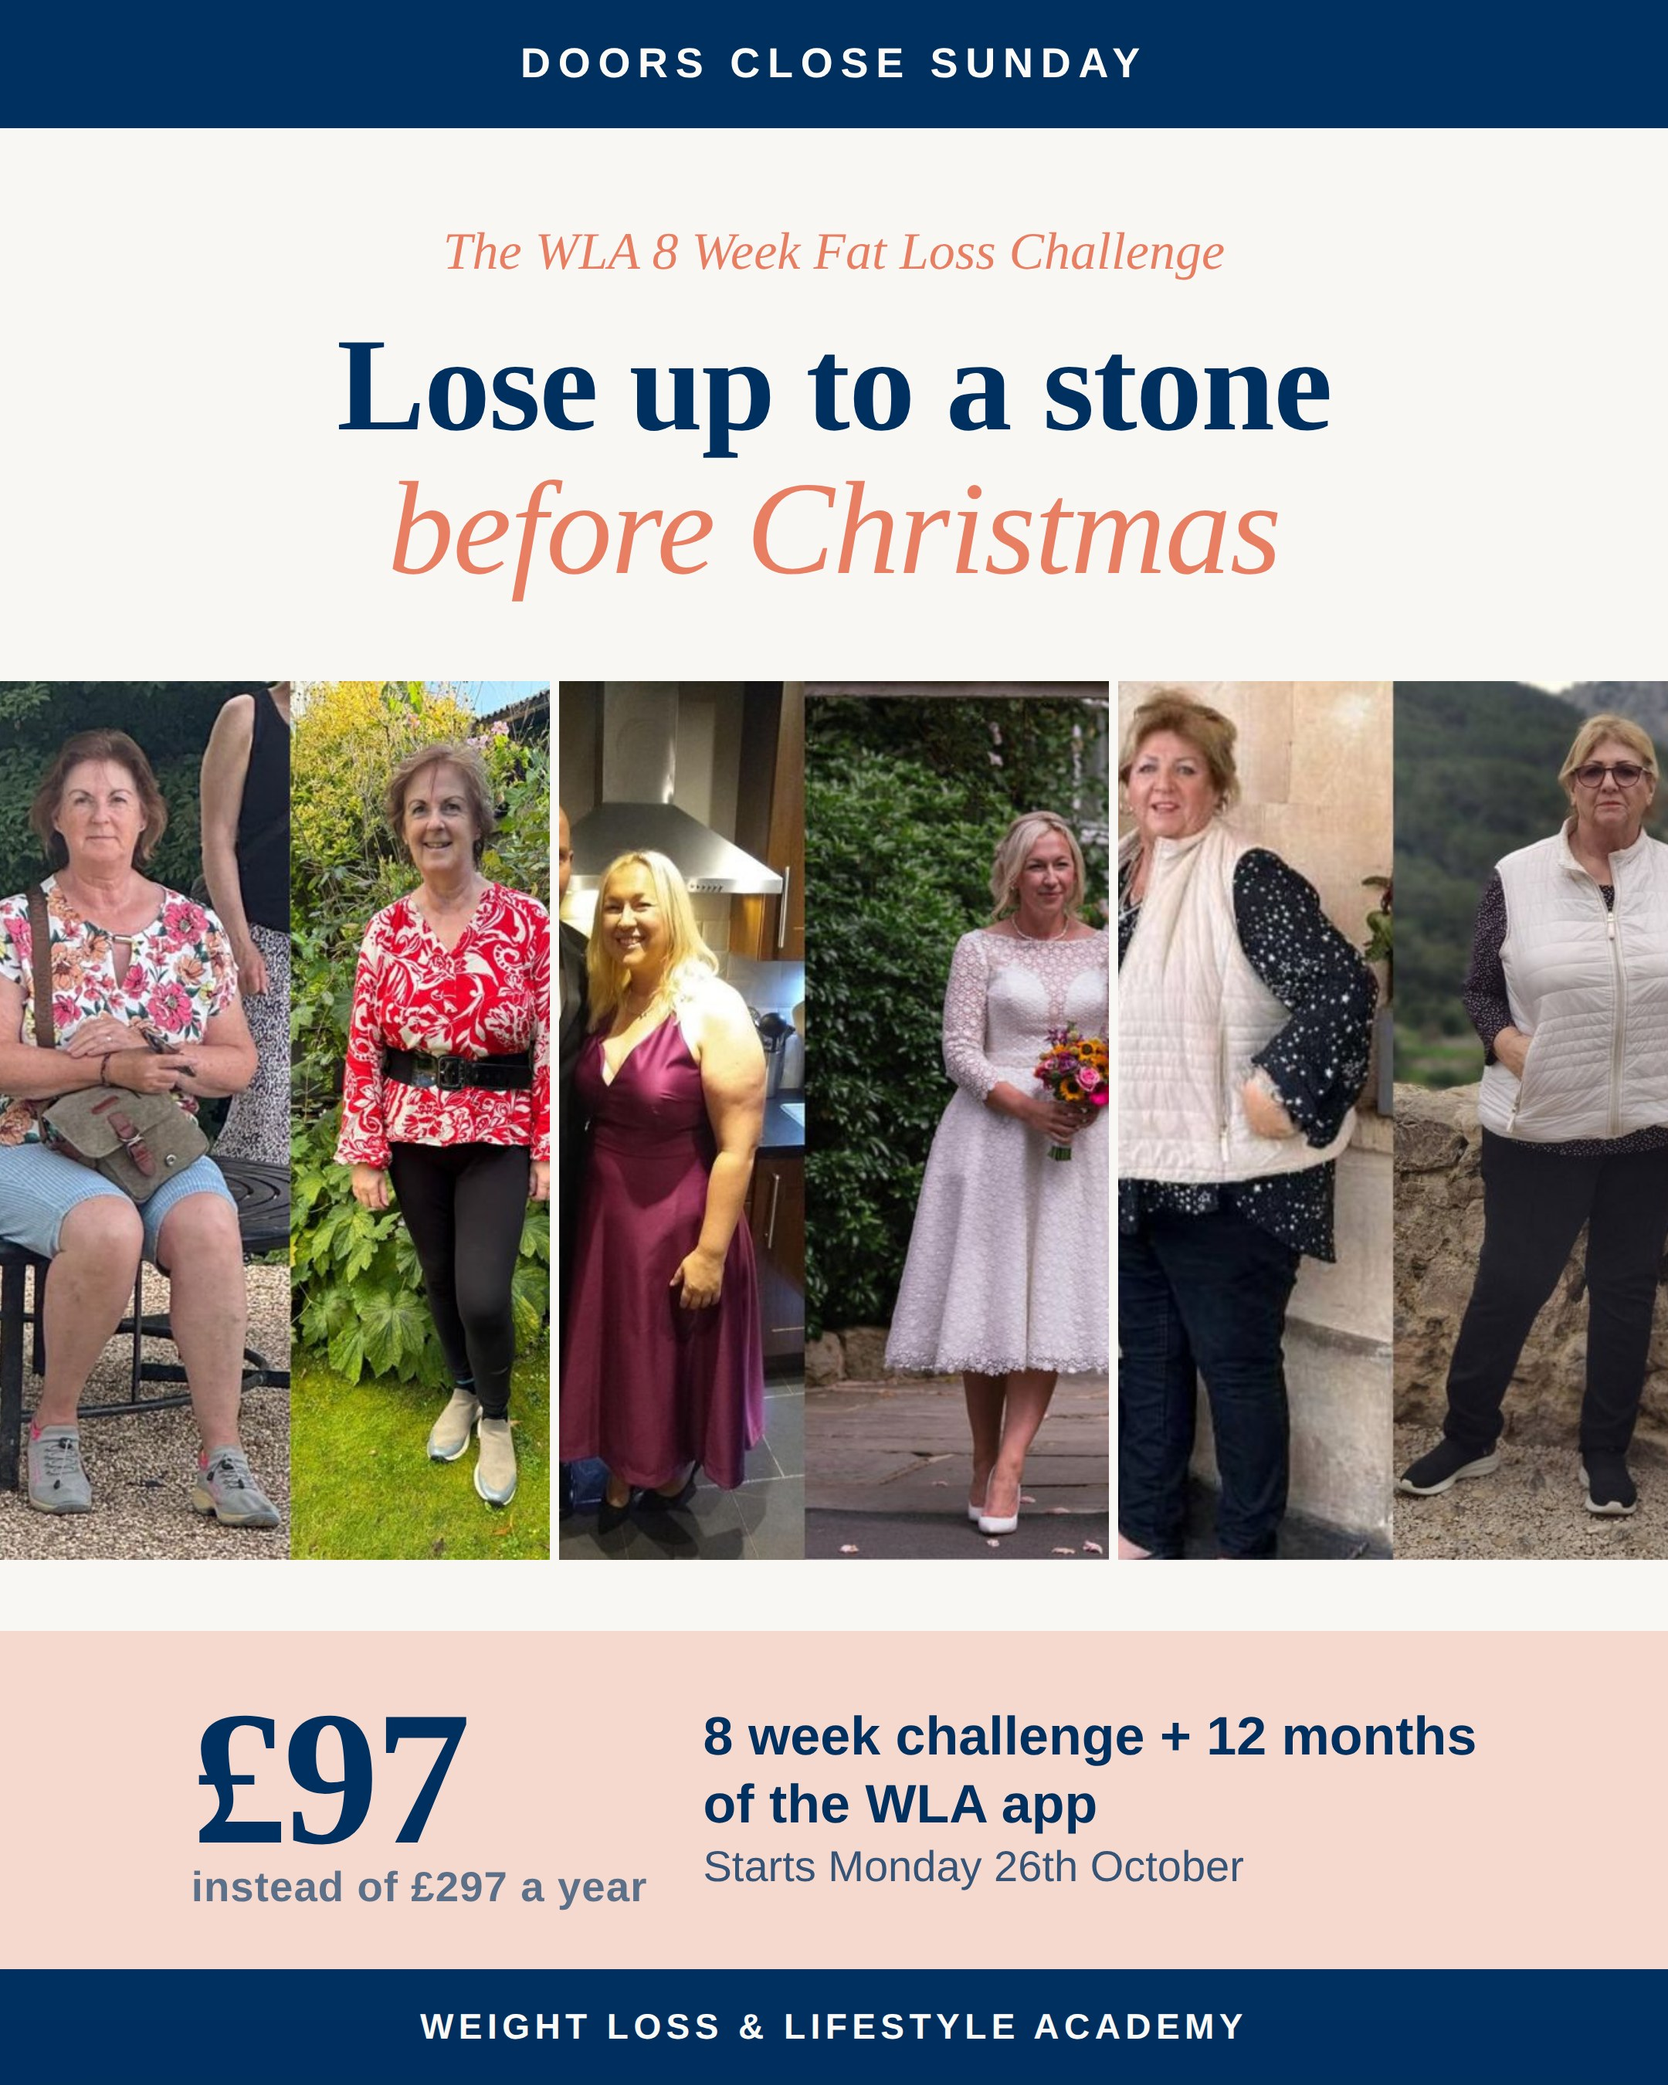
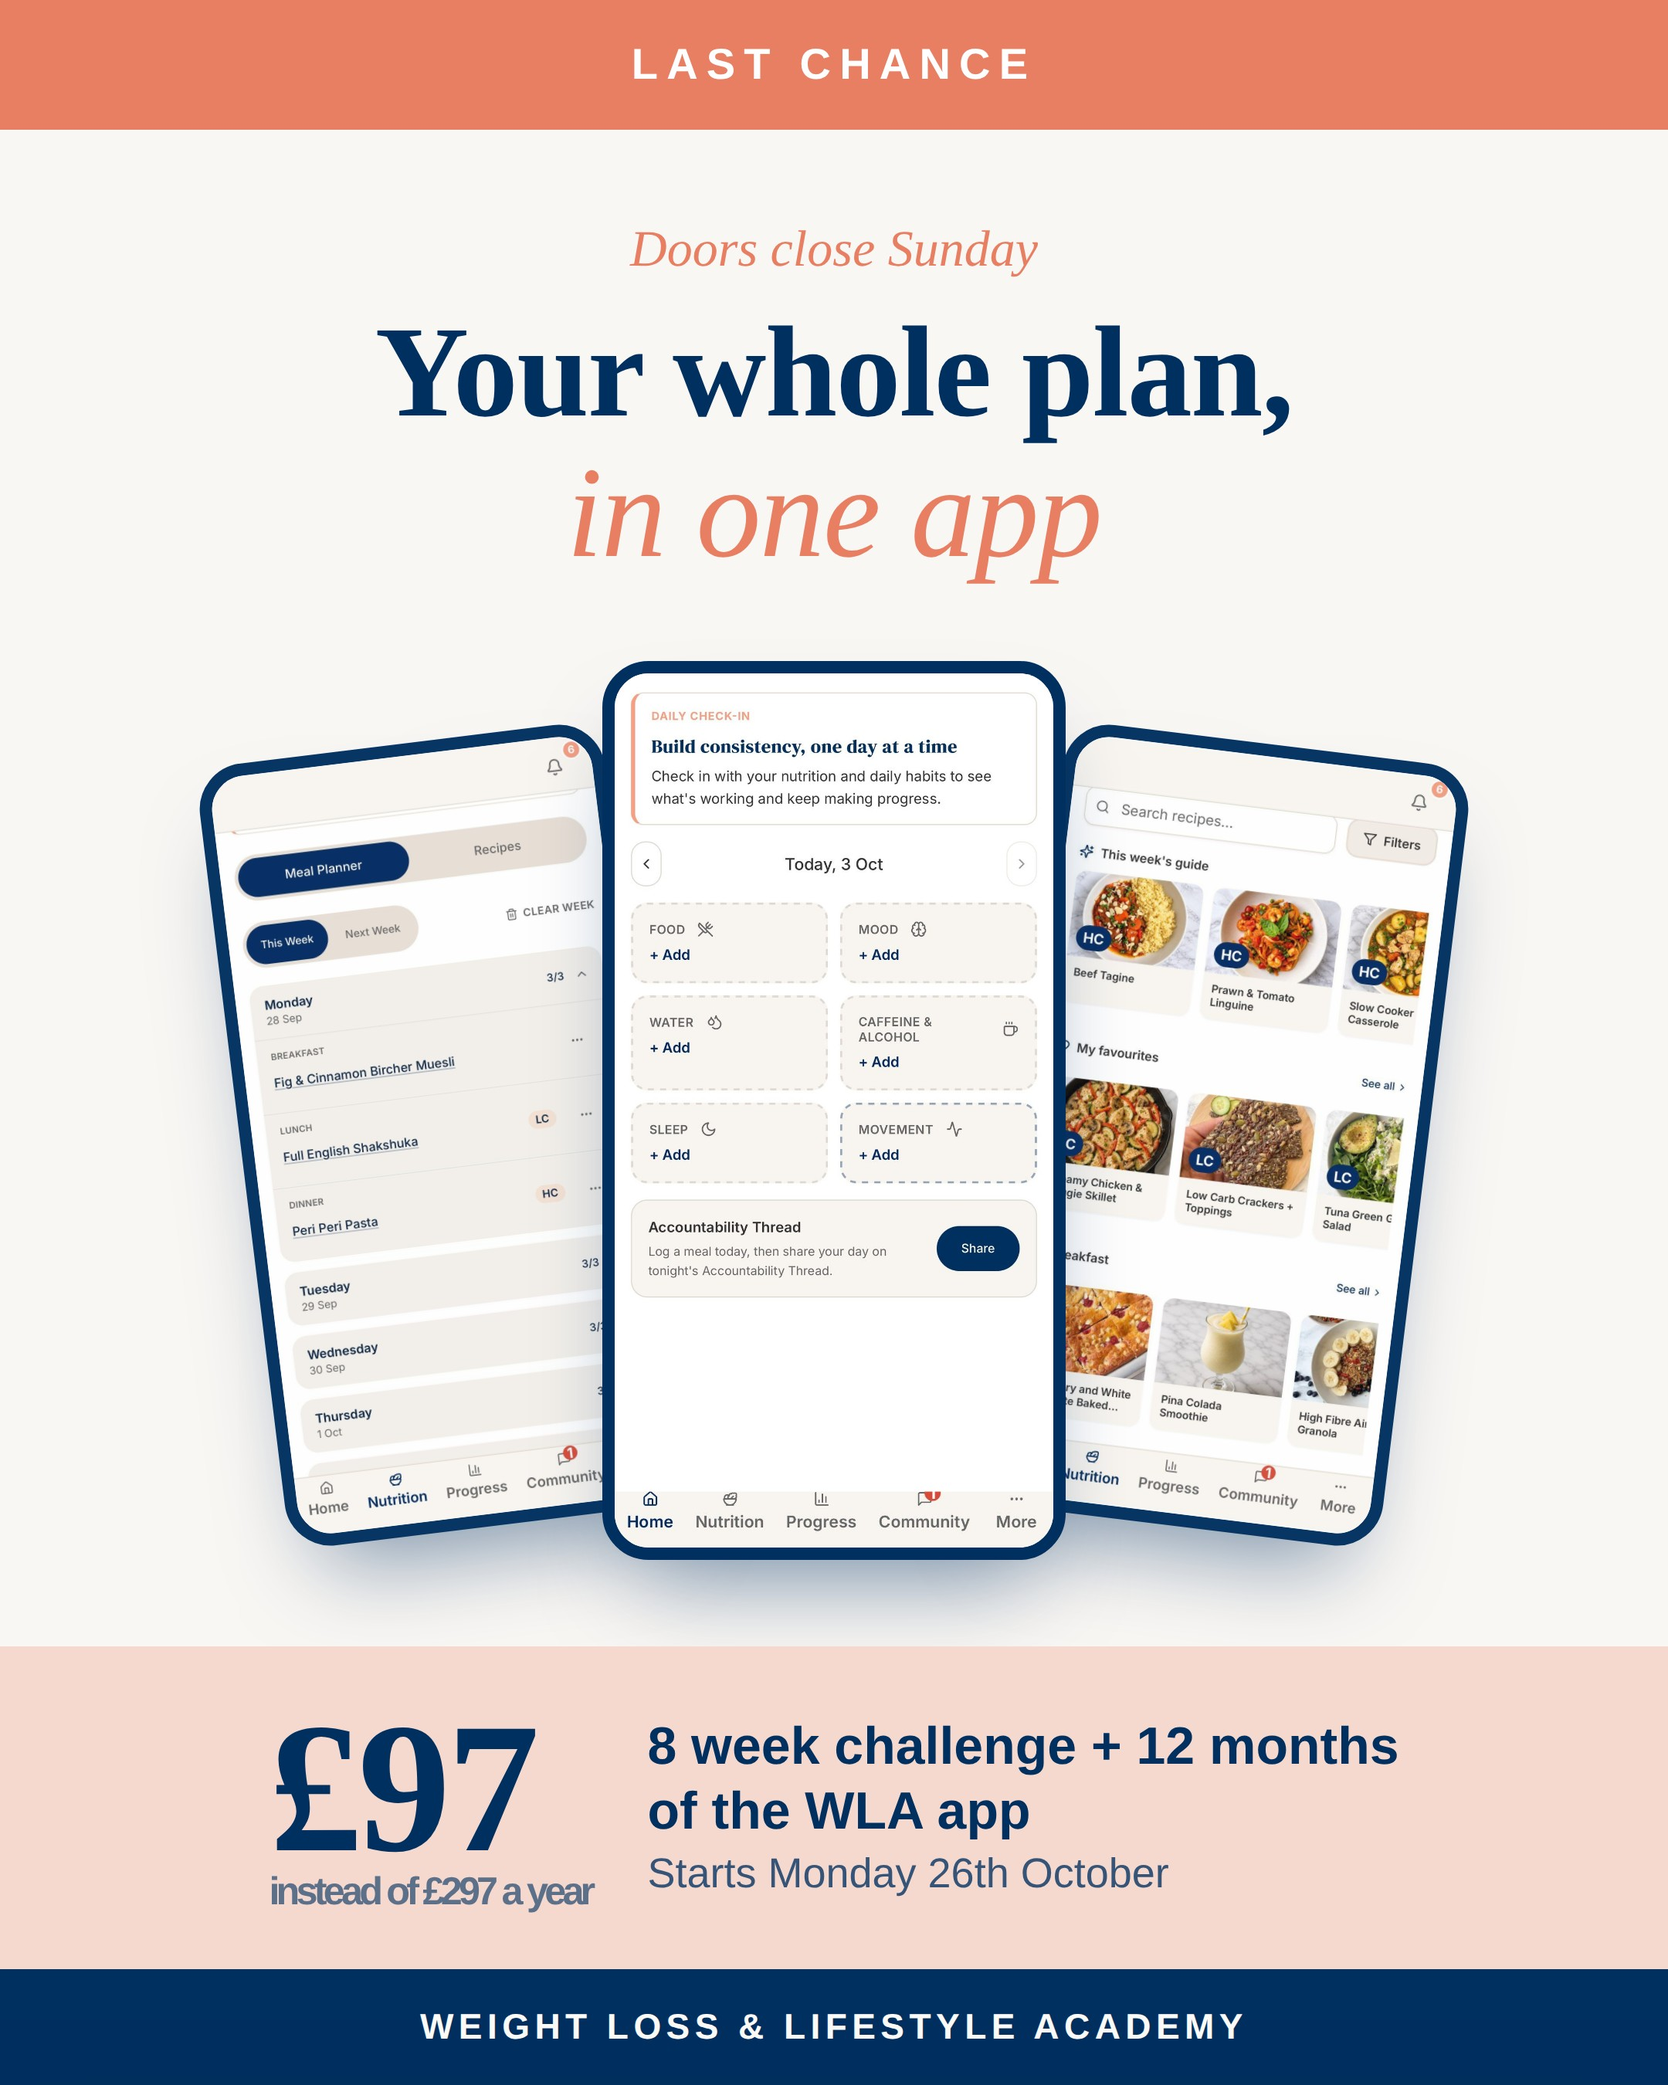
Ad set: app mockup and last chance (#411)
Replaces the before-and-after concept. A coral "Last chance" strip,
"Doors close Sunday", the headline "Your whole plan, in one app", then
three phones fanned out showing the meal planner, the daily tracker and
the recipes, with the offer bar underneath.

Same three sizes, re-exported over the old files.

Claude-Session: https://claude.ai/code/session_01Jn9w1ixEKqgExzNapm9XBc

diff --git a/wla-app/ads/index.html b/wla-app/ads/index.html
@@ -2,7 +2,7 @@
 <html lang="en">
 <head>
 <meta charset="utf-8" />
-<title>WLA 8 Week Fat Loss Challenge · Facebook ad set</title>
+<title>WLA App · last chance ad set</title>
 <link rel="preconnect" href="https://fonts.googleapis.com">
 <link rel="preconnect" href="https://fonts.gstatic.com" crossorigin>
 <link href="https://fonts.googleapis.com/css2?family=Libre+Baskerville:ital,wght@0,400;0,700;1,400&family=Alegreya+Sans:ital,wght@0,400;0,500;0,600;0,700;1,400&display=swap" rel="stylesheet">
@@ -10,123 +10,123 @@
   :root {
     --navy: #003060; --navy-deep: #00203f;
     --coral: #E87F63; --coral-soft: #F79F83; --peach: #F5D9CE;
-    --cream: #F9F7F4; --cream-2: #E9DFD3; --paper: #FDFBF8; --muted: #5B6B82;
+    --cream: #F9F7F4; --cream-2: #E9DFD3; --paper: #FDFBF8;
   }
   *, *::before, *::after { box-sizing: border-box; }
   html, body { margin: 0; padding: 0; background: #2a2a2a; font-family: "Alegreya Sans", sans-serif; }
   body { display: flex; flex-direction: column; align-items: center; gap: 48px; padding: 48px 24px; }
-  .serif { font-family: 'Libre Baskerville', serif; }
 
-  .ad { position: relative; overflow: hidden; background: var(--cream);
-        color: var(--navy); display: flex; flex-direction: column;
-        box-shadow: 0 30px 80px rgba(0,0,0,0.5); }
+  .ad { position: relative; overflow: hidden; display: flex; flex-direction: column;
+        background: var(--cream); color: var(--navy);
+        box-shadow: 0 30px 80px rgba(0,0,0,.5); }
   #ad-square   { width: 1080px; height: 1080px; }
   #ad-portrait { width: 1080px; height: 1350px; }
   #ad-story    { width: 1080px; height: 1920px; }
 
-  /* deadline strip */
-  .strip { background: var(--navy); color: var(--paper); text-align: center;
-           font-weight: 700; letter-spacing: 0.18em; text-transform: uppercase; }
+  /* last-chance strip */
+  .strip { background: var(--coral); color: #fff; text-align: center;
+           font-weight: 700; letter-spacing: .2em; text-transform: uppercase; }
 
-  .body { flex: 1; display: flex; flex-direction: column; align-items: center;
-          text-align: center; min-height: 0; }
+  .body { flex: 1; min-height: 0; display: flex; flex-direction: column;
+          align-items: center; text-align: center; position: relative; }
 
   h1 { margin: 0; font-family: 'Libre Baskerville', serif; font-weight: 700;
-       line-height: 1.08; letter-spacing: -0.01em; color: var(--navy); }
+       line-height: 1.08; letter-spacing: -.01em; }
   h1 em { font-style: italic; font-weight: 400; color: var(--coral); }
+  .kicker { font-family: 'Libre Baskerville', serif; font-style: italic; color: var(--coral); }
 
-  .kicker { font-family: 'Libre Baskerville', serif; font-style: italic;
-            color: var(--coral); }
+  /* phone cluster */
+  .phones { position: relative; width: 100%; flex: 1; min-height: 0;
+            display: flex; align-items: flex-start; justify-content: center; }
+  .phone { border-radius: 30px; overflow: hidden; background: #fff;
+           border: 8px solid var(--navy); flex: none;
+           box-shadow: 0 34px 60px -24px rgba(0,48,96,.55); }
+  .phone img { width: 100%; display: block; }
+  .phone.side { opacity: .97; }
+  .phone.left  { transform: rotate(-7deg); z-index: 1; }
+  .phone.mid   { z-index: 3; }
+  .phone.right { transform: rotate(7deg); z-index: 2; }
 
-  /* proof photos */
-  /* Pull out of the body padding so the proof runs edge to edge, and let it
-     take whatever height is left rather than leaving a hole above the offer. */
-  .shots { display: grid; grid-template-columns: repeat(3, 1fr); gap: 6px;
-           width: auto; align-self: stretch; flex: 1; min-height: 0; }
-  .shots .f { overflow: hidden; background: var(--cream-2); min-height: 0; }
-  .shots img { width: 100%; height: 100%; object-fit: cover;
-               object-position: center 18%; display: block; }
-
-  /* offer block */
+  /* offer bar */
   .offer { width: 100%; background: var(--peach); display: flex;
-           align-items: center; justify-content: center; gap: 36px; }
+           align-items: center; justify-content: center; gap: 36px; position: relative; z-index: 5; }
   .offer .lines { text-align: left; }
-  .offer .l1 { font-weight: 700; color: var(--navy); line-height: 1.25; }
-  .offer .l2 { color: var(--navy); opacity: .78; line-height: 1.35; }
+  .offer .l1 { font-weight: 700; line-height: 1.25; }
+  .offer .l2 { opacity: .78; line-height: 1.35; }
   .price { font-family: 'Libre Baskerville', serif; font-weight: 700;
-           color: var(--navy); line-height: .9; letter-spacing: -0.02em; }
+           line-height: .9; letter-spacing: -.02em; }
   .price small { display: block; font-family: "Alegreya Sans", sans-serif;
-                 font-size: .22em; font-weight: 600; opacity: .62;
-                 letter-spacing: .02em; margin-top: .1em; }
+                 font-weight: 600; opacity: .62; margin-top: .1em; }
 
   .foot { background: var(--navy); color: var(--paper); text-align: center;
-          font-weight: 600; letter-spacing: 0.14em; text-transform: uppercase; }
+          font-weight: 600; letter-spacing: .14em; text-transform: uppercase; }
 
-  /* ---------- square 1080x1080 ---------- */
-  #ad-square .strip { padding: 22px; font-size: 25px; }
-  #ad-square .body  { padding: 46px 70px 0; }
-  #ad-square .shots { margin: 36px -70px 0; }
-  #ad-square .kicker { font-size: 31px; margin-bottom: 16px; }
-  #ad-square h1 { font-size: 74px; }
-  #ad-square .offer { padding: 30px 60px; margin-top: 34px; }
-  #ad-square .price { font-size: 104px; }
-  #ad-square .offer .l1 { font-size: 31px; }
-  #ad-square .offer .l2 { font-size: 25px; }
+  /* ---- square 1080x1080 ---- */
+  #ad-square .strip { padding: 22px; font-size: 26px; }
+  #ad-square .body { padding: 44px 60px 0; }
+  #ad-square .kicker { font-size: 30px; margin-bottom: 12px; }
+  #ad-square h1 { font-size: 72px; }
+  #ad-square .phones { margin-top: 34px; }
+  #ad-square .phone.mid { width: 258px; margin: 0 -26px; }
+  #ad-square .phone.side { width: 228px; margin-top: 44px; }
+  #ad-square .offer { padding: 28px 56px; }
+  #ad-square .price { font-size: 100px; }
+  #ad-square .price small { font-size: .21em; }
+  #ad-square .offer .l1 { font-size: 30px; }
+  #ad-square .offer .l2 { font-size: 24px; }
   #ad-square .foot { padding: 20px; font-size: 21px; }
 
-  /* ---------- portrait 1080x1350 ---------- */
-  #ad-portrait .strip { padding: 26px; font-size: 27px; }
-  #ad-portrait .body  { padding: 62px 80px 0; }
-  #ad-portrait .shots { margin: 52px -80px 0; }
-  #ad-portrait .kicker { font-size: 34px; margin-bottom: 20px; }
-  #ad-portrait h1 { font-size: 86px; }
-  #ad-portrait .offer { padding: 40px 70px; margin-top: 46px; }
-  #ad-portrait .price { font-size: 124px; }
-  #ad-portrait .offer .l1 { font-size: 35px; }
-  #ad-portrait .offer .l2 { font-size: 28px; }
+  /* ---- portrait 1080x1350 ---- */
+  #ad-portrait .strip { padding: 26px; font-size: 28px; }
+  #ad-portrait .body { padding: 60px 70px 0; }
+  #ad-portrait .kicker { font-size: 33px; margin-bottom: 16px; }
+  #ad-portrait h1 { font-size: 84px; }
+  #ad-portrait .phones { margin-top: 50px; }
+  #ad-portrait .phone.mid { width: 300px; margin: 0 -30px; }
+  #ad-portrait .phone.side { width: 264px; margin-top: 52px; }
+  #ad-portrait .offer { padding: 38px 64px; }
+  #ad-portrait .price { font-size: 120px; }
+  #ad-portrait .price small { font-size: .21em; }
+  #ad-portrait .offer .l1 { font-size: 34px; }
+  #ad-portrait .offer .l2 { font-size: 27px; }
   #ad-portrait .foot { padding: 24px; font-size: 23px; }
 
-  /* ---------- story 1080x1920 ---------- */
-  #ad-story .strip { padding: 34px; font-size: 30px; }
-  #ad-story .body  { padding: 120px 90px 0; }
-  #ad-story .shots { margin: 0 -90px; flex: none;
-                     grid-template-columns: repeat(2, 1fr); }
-  #ad-story .shots .f { aspect-ratio: 1/1; }
-  #ad-story .shots .f:nth-child(3) { display: none; }
-  #ad-story .body { justify-content: space-evenly; }
-  /* Instagram's controls sit over the bottom ~300px, so the brand bar gets a
-     cream margin under it rather than running to the edge. */
-  #ad-story .foot { margin-bottom: 150px; }
-  #ad-story .kicker { font-size: 40px; margin-bottom: 26px; }
-  #ad-story h1 { font-size: 104px; }
-  #ad-story .offer { padding: 56px 56px; margin-top: 0; }
-  #ad-story .price { font-size: 150px; }
+  /* ---- story 1080x1920 ---- */
+  #ad-story .strip { padding: 32px; font-size: 30px; }
+  #ad-story .body { padding: 130px 80px 0; }
+  #ad-story .kicker { font-size: 38px; margin-bottom: 20px; }
+  #ad-story h1 { font-size: 100px; }
+  #ad-story .phones { margin-top: 80px; align-items: flex-start; }
+  #ad-story .phone.mid { width: 350px; margin: 0 -34px; }
+  #ad-story .phone.side { width: 300px; margin-top: 60px; }
+  #ad-story .offer { padding: 50px 56px; }
+  #ad-story .price { font-size: 140px; }
+  #ad-story .price small { font-size: .2em; }
   #ad-story .offer .l1 { font-size: 36px; }
-  #ad-story .offer .l2 { font-size: 32px; }
-  #ad-story .foot { padding: 34px; font-size: 26px; }
+  #ad-story .offer .l2 { font-size: 30px; }
+  #ad-story .foot { padding: 32px; font-size: 26px; margin-bottom: 150px; }
 </style>
 </head>
 <body>
 
-<!-- Three Facebook/Instagram sizes, one concept, rendered at 2x:
+<!-- Last-chance ad set for the WLA App, three Meta sizes, one concept:
        #ad-square   1080x1080  feed
        #ad-portrait 1080x1350  feed, the most space on a phone
        #ad-story    1080x1920  Stories and Reels
-     Exports live at assets/wla-ad-{square,portrait,story}.jpg.
+     Exports: assets/wla-ad-{square,portrait,story}.jpg, rendered at 2x.
 
-     ⚠ The copy here is fixed text, not read from the campaign config. The
-     deadline, the start date and the price have to be changed by hand and
-     the images re-rendered. -->
+     ⚠ The copy is fixed text, not read from the campaign config. The
+     deadline, the start date and the price change by hand, then re-render. -->
 
 <div class="ad" id="ad-square">
-  <div class="strip">Doors close Sunday</div>
+  <div class="strip">Last chance</div>
   <div class="body">
-    <div class="kicker">The WLA 8 Week Fat Loss Challenge</div>
-    <h1>Lose up to a stone<br /><em>before Christmas</em></h1>
-    <div class="shots">
-      <div class="f"><img src="/assets/results-sm/member-09-before-after.jpg" alt="" /></div>
-      <div class="f"><img src="/assets/results-sm/vicky-before-after.jpg" alt="" /></div>
-      <div class="f"><img src="/assets/results-sm/member-11-before-after.jpg" alt="" /></div>
+    <div class="kicker">Doors close Sunday</div>
+    <h1>Your whole plan,<br /><em>in one app</em></h1>
+    <div class="phones">
+      <div class="phone side left"><img src="/assets/app-meal-planner.jpg" alt="" /></div>
+      <div class="phone mid"><img src="/assets/app-home-tracker.jpg" alt="" /></div>
+      <div class="phone side right"><img src="/assets/app-recipes-hub.jpg" alt="" /></div>
     </div>
   </div>
   <div class="offer">
@@ -140,14 +140,14 @@
 </div>
 
 <div class="ad" id="ad-portrait">
-  <div class="strip">Doors close Sunday</div>
+  <div class="strip">Last chance</div>
   <div class="body">
-    <div class="kicker">The WLA 8 Week Fat Loss Challenge</div>
-    <h1>Lose up to a stone<br /><em>before Christmas</em></h1>
-    <div class="shots">
-      <div class="f"><img src="/assets/results-sm/member-09-before-after.jpg" alt="" /></div>
-      <div class="f"><img src="/assets/results-sm/vicky-before-after.jpg" alt="" /></div>
-      <div class="f"><img src="/assets/results-sm/member-11-before-after.jpg" alt="" /></div>
+    <div class="kicker">Doors close Sunday</div>
+    <h1>Your whole plan,<br /><em>in one app</em></h1>
+    <div class="phones">
+      <div class="phone side left"><img src="/assets/app-meal-planner.jpg" alt="" /></div>
+      <div class="phone mid"><img src="/assets/app-home-tracker.jpg" alt="" /></div>
+      <div class="phone side right"><img src="/assets/app-recipes-hub.jpg" alt="" /></div>
     </div>
   </div>
   <div class="offer">
@@ -161,14 +161,14 @@
 </div>
 
 <div class="ad" id="ad-story">
-  <div class="strip">Doors close Sunday</div>
+  <div class="strip">Last chance</div>
   <div class="body">
-    <div class="kicker">The WLA 8 Week Fat Loss Challenge</div>
-    <h1>Lose up to a stone<br /><em>before Christmas</em></h1>
-    <div class="shots">
-      <div class="f"><img src="/assets/results-sm/member-09-before-after.jpg" alt="" /></div>
-      <div class="f"><img src="/assets/results-sm/vicky-before-after.jpg" alt="" /></div>
-      <div class="f"><img src="/assets/results-sm/member-11-before-after.jpg" alt="" /></div>
+    <div class="kicker">Doors close Sunday</div>
+    <h1>Your whole plan,<br /><em>in one app</em></h1>
+    <div class="phones">
+      <div class="phone side left"><img src="/assets/app-meal-planner.jpg" alt="" /></div>
+      <div class="phone mid"><img src="/assets/app-home-tracker.jpg" alt="" /></div>
+      <div class="phone side right"><img src="/assets/app-recipes-hub.jpg" alt="" /></div>
     </div>
   </div>
   <div class="offer">
